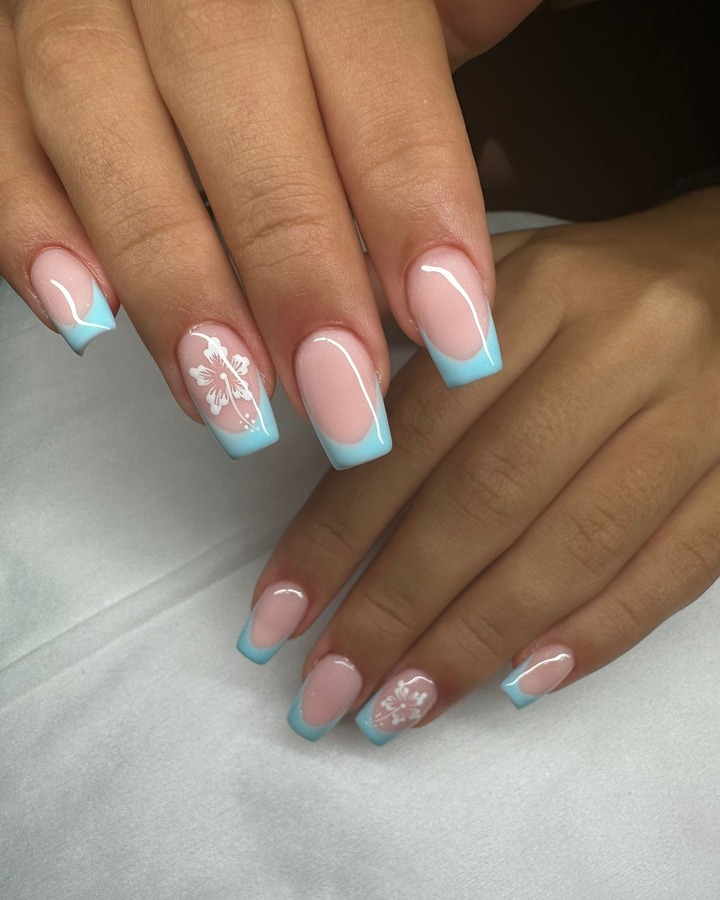
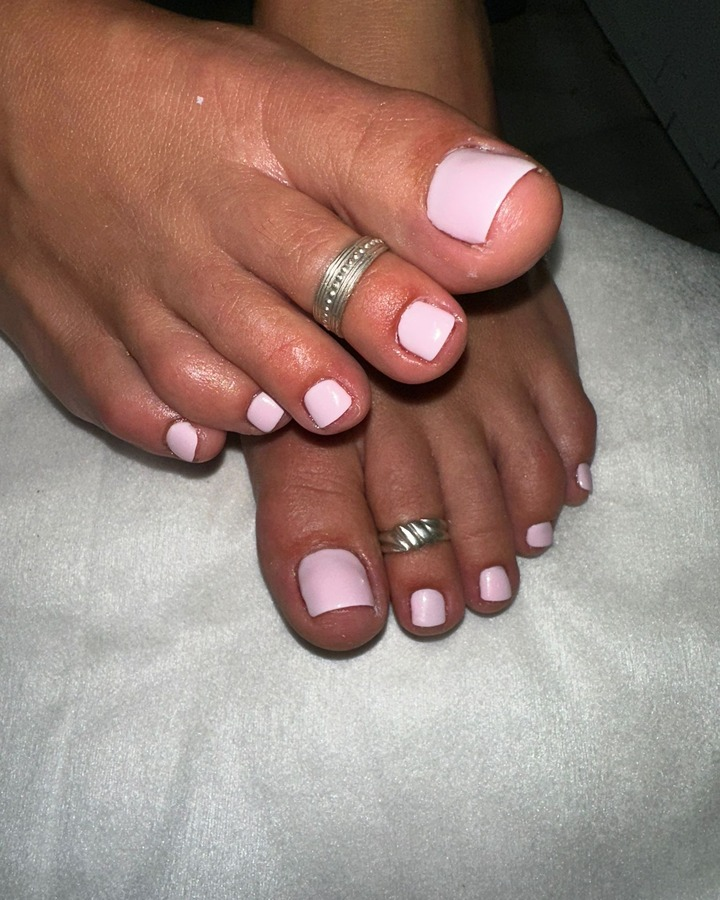
Corregir clasificación y textos de la galería

diff --git a/src/data/galeria.ts b/src/data/galeria.ts
@@ -96,12 +96,14 @@ export const trabajos: Trabajo[] = [
     // La misma manicura que abre la página, aquí con el encuadre vertical
     // completo: se ven las cinco uñas y el diseño entero.
     imagen: almendraNegraCarey,
+    titulo: 'Almendra negra con efecto carey',
     categorias: ['manos', 'gel', 'diseno'],
     alt: 'Uñas almendradas en negro con efecto carey y una flor difuminada, sobre adelfas rosas',
     descripcion: 'Almendra negra con efecto carey y una flor difuminada, un diseño intenso y elegante.',
   },
   {
     imagen: francesBabyboomer,
+    titulo: 'Francesa babyboomer nude',
     categorias: ['manos', 'diseno'],
     alt: 'Francesa babyboomer: degradado de nude a blanco sin línea marcada',
     descripcion: 'Francesa babyboomer en nude y blanco, suave y luminosa.',
@@ -109,49 +111,57 @@ export const trabajos: Trabajo[] = [
   },
   {
     imagen: rojoRosaPintada,
+    titulo: 'Rosa roja pintada a mano',
     categorias: ['manos', 'diseno'],
     alt: 'Manicura roja con una rosa y hojas pintadas a mano sobre base nude',
     descripcion: 'Base nude con una rosa y hojas pintadas a mano para un acabado único.',
   },
   {
     imagen: nudeNaturalBrillo,
+    titulo: 'Nude natural de alto brillo',
     categorias: ['manos'],
     alt: 'Uñas naturales cortas con acabado nude de alto brillo',
     descripcion: 'Uña natural corta en nude, limpia y con brillo espejo.',
   },
   {
     imagen: degradadoLilaNegro,
+    titulo: 'Degradado lila y negro con pedrería',
     categorias: ['manos', 'gel', 'diseno'],
     alt: 'Degradado de lila a negro con pedrería plateada en el anular',
     descripcion: 'Degradado de lila a negro con un toque de pedrería plateada.',
   },
   {
     imagen: pedicuraRojo,
-    categorias: ['pies', 'manos'],
-    alt: 'Pedicura y manicura a juego en rojo intenso',
-    descripcion: 'Manicura y pedicura a juego en rojo intenso.',
+    titulo: 'Pedicura roja a juego',
+    categorias: ['pies'],
+    alt: 'Pedicura en rojo intenso sobre uñas cortas de los pies, junto a una manicura roja',
+    descripcion: 'Pedicura en rojo intenso sobre uñas cortas, fotografiada junto a la manicura a juego.',
     destacada: true,
   },
   {
     imagen: nudeCremoso,
+    titulo: 'Almendra corta en nude cremoso',
     categorias: ['manos'],
     alt: 'Almendra corta en nude cremoso con acabado satinado',
     descripcion: 'Almendra corta en nude cremoso y acabado satinado.',
   },
   {
     imagen: turquesaMarmol,
+    titulo: 'Turquesa degradado con mármol',
     categorias: ['manos', 'diseno'],
     alt: 'Degradado turquesa con vetas negras de mármol trazadas a mano',
     descripcion: 'Turquesa degradado con vetas negras de mármol dibujadas a mano.',
   },
   {
     imagen: lilaPastel,
+    titulo: 'Almendra lila con purpurina',
     categorias: ['manos', 'gel'],
     alt: 'Almendra larga en lila pastel con purpurina fina',
     descripcion: 'Almendra larga en lila pastel con un velo de purpurina fina.',
   },
   {
     imagen: rojoDisenoBn,
+    titulo: 'Rojo gráfico en blanco y negro',
     categorias: ['manos', 'diseno'],
     alt: 'Uñas rojas con un diseño en blanco y negro pintado a mano',
     descripcion: 'Rojo intenso combinado con un diseño gráfico en blanco y negro.',
@@ -159,30 +169,35 @@ export const trabajos: Trabajo[] = [
   },
   {
     imagen: purpurinaCoral,
+    titulo: 'Coral y rosa con purpurina',
     categorias: ['manos', 'diseno'],
     alt: 'Combinación de purpurina coral, rosa empolvado y blanco roto en forma cuadrada',
     descripcion: 'Coral, rosa empolvado y blanco roto con purpurina en forma cuadrada.',
   },
   {
     imagen: coralLiso,
+    titulo: 'Almendra coral de brillo espejo',
     categorias: ['manos'],
     alt: 'Almendra en coral liso con brillo espejo',
     descripcion: 'Almendra en coral liso con un brillo limpio y luminoso.',
   },
   {
     imagen: fucsiaTornasolado,
+    titulo: 'Fucsia tornasolado violeta',
     categorias: ['manos'],
     alt: 'Fucsia tornasolado con reflejo violeta sobre tul blanco',
     descripcion: 'Fucsia tornasolado con reflejos violetas.',
   },
   {
     imagen: degradadoRosaFlores,
+    titulo: 'Degradado rosa sobre flores blancas',
     categorias: ['manos', 'diseno'],
     alt: 'Degradado de nude a rosa y rojo, fotografiado sobre flores blancas',
     descripcion: 'Degradado de nude a rosa y rojo con un acabado romántico.',
   },
   {
     imagen: francesNeonExtension,
+    titulo: 'Francesa neón multicolor con extensión',
     categorias: ['gel', 'diseno'],
     alt: 'Uñas de gel con extensión y francesa en neón verde, rosa, amarillo y naranja',
     descripcion: 'Extensión de gel con francesa neón multicolor, para llevar las manos al centro.',
@@ -190,104 +205,108 @@ export const trabajos: Trabajo[] = [
   },
   {
     imagen: degradadoNaranja,
+    titulo: 'Degradado naranja y coral',
     categorias: ['manos'],
     alt: 'Degradado de naranja a coral en forma almendra',
     descripcion: 'Almendra en degradado de naranja a coral.',
   },
   {
     imagen: rosaNeonFrancesa,
+    titulo: 'Rosa neón con francesa invertida',
     categorias: ['manos', 'diseno'],
     alt: 'Rosa neón con francesa invertida en blanco',
     descripcion: 'Rosa neón con francesa invertida en blanco.',
   },
   {
     imagen: rosaNeonFloral,
+    titulo: 'Rosa neón con flores multicolor',
     categorias: ['manos', 'diseno'],
     alt: 'Rosa neón combinado con un diseño floral multicolor sobre base blanca',
     descripcion: 'Rosa neón y flores multicolor sobre una base blanca.',
   },
   {
     imagen: neonArcoiris,
+    titulo: 'Neón multicolor con arcoíris',
     categorias: ['manos', 'diseno'],
     alt: 'Neones lisos combinados con un degradado arcoíris pintado a mano alzada',
     descripcion: 'Colores neón lisos con un degradado arcoíris pintado a mano alzada.',
   },
   {
     imagen: rojoAlmendraClasico,
-    titulo: 'Rojo clásico almendrado',
+    titulo: 'Rojo clásico en forma almendrada',
     categorias: ['manos'],
     alt: 'Manicura roja brillante en uñas largas de forma almendrada',
-    descripcion: 'Rojo clásico de alto brillo sobre una elegante forma almendrada.',
+    descripcion: 'Manicura roja lisa y brillante sobre uñas largas de forma almendrada.',
   },
   {
     imagen: rojoClasicoCorta,
-    titulo: 'Rojo clásico corto',
+    titulo: 'Rojo clásico en uña corta',
     categorias: ['manos'],
     alt: 'Manicura roja brillante en uñas cortas y redondeadas',
-    descripcion: 'Rojo intenso y uniforme en una manicura corta, limpia y atemporal.',
+    descripcion: 'Rojo intenso y uniforme en una manicura corta, redondeada y atemporal.',
   },
   {
     imagen: turquesaLisoCuadrada,
-    titulo: 'Turquesa liso cuadrado',
+    titulo: 'Turquesa liso en forma cuadrada',
     categorias: ['manos'],
     alt: 'Manicura turquesa brillante en uñas cuadradas',
-    descripcion: 'Turquesa vibrante y brillante en una forma cuadrada muy pulida.',
+    descripcion: 'Turquesa vibrante y brillante sobre uñas cuadradas de longitud corta.',
   },
   {
     imagen: turquesaLisoManicura,
-    titulo: 'Turquesa brillante',
+    titulo: 'Manicura turquesa de brillo espejo',
     categorias: ['manos'],
     alt: 'Manicura turquesa brillante en uñas de forma cuadrada',
-    descripcion: 'Un turquesa luminoso que destaca por su acabado espejo.',
+    descripcion: 'Manicura turquesa lisa, luminosa y de acabado espejo en ambas manos.',
   },
   {
     imagen: francesTurquesaNude,
-    titulo: 'Francesa turquesa sobre nude',
+    titulo: 'Francesa turquesa sobre base nude',
     categorias: ['manos', 'diseno'],
     alt: 'Uñas nude con punta francesa en turquesa',
-    descripcion: 'Base nude natural con una punta francesa turquesa fresca y delicada.',
+    descripcion: 'Base nude translúcida con puntas francesas turquesa de acabado brillante.',
   },
   {
     imagen: francesTurquesaCorta,
-    titulo: 'Francesa turquesa corta',
+    titulo: 'Francesa turquesa corta y redondeada',
     categorias: ['manos', 'diseno'],
     alt: 'Uñas cortas nude con francesa turquesa y brillo',
-    descripcion: 'Francesa turquesa en uña corta para un resultado discreto y luminoso.',
+    descripcion: 'Puntas turquesa sobre base nude en una manicura corta, limpia y luminosa.',
   },
   {
     imagen: rosaPastelAlmendra,
-    titulo: 'Rosa pastel almendrado',
+    titulo: 'Rosa pastel cremoso almendrado',
     categorias: ['manos'],
     alt: 'Manicura rosa pastel brillante en uñas almendradas',
-    descripcion: 'Rosa pastel cremoso en forma almendrada, suave y muy femenina.',
+    descripcion: 'Rosa pastel cremoso y brillante sobre uñas largas de forma almendrada.',
   },
   {
     imagen: pedicuraRosaPastel,
-    titulo: 'Pedicura rosa pastel',
+    titulo: 'Pedicura rosa pastel brillante',
     categorias: ['pies'],
     alt: 'Pedicura rosa pastel brillante en uñas de los pies',
-    descripcion: 'Pedicura rosa pastel con acabado brillante y cuidado impecable.',
+    descripcion: 'Esmaltado rosa pastel brillante en las uñas de los pies, suave y luminoso.',
   },
   {
     imagen: rosaNeonFlores,
-    titulo: 'Rosa neón y flores',
+    titulo: 'Rosa neón, verde agua y flores',
     categorias: ['manos', 'diseno'],
     alt: 'Manicura rosa neón y verde agua con una uña decorada con flores',
-    descripcion: 'Rosa neón, verde agua y una uña floral multicolor llena de alegría.',
+    descripcion: 'Manicura de contraste en rosa neón y verde agua, con una uña floral multicolor.',
     destacada: true,
   },
   {
     imagen: francesTurquesaFloral,
-    titulo: 'Francesa turquesa floral',
+    titulo: 'Francesa turquesa con flores blancas',
     categorias: ['manos', 'diseno'],
     alt: 'Francesa turquesa sobre nude con flores blancas pintadas a mano',
-    descripcion: 'Francesa turquesa sobre nude con pequeños detalles florales pintados a mano.',
+    descripcion: 'Puntas turquesa sobre nude con flores blancas pintadas a mano en las uñas de acento.',
   },
   {
     imagen: pedicuraRosaCorta,
-    titulo: 'Pedicura rosa corta',
+    titulo: 'Pedicura rosa pastel corta',
     categorias: ['pies'],
-    alt: 'Pedicura rosa pastel en uñas cortas de los pies',
-    descripcion: 'Rosa pastel uniforme para una pedicura corta, cuidada y luminosa.',
+    alt: 'Pedicura rosa pastel uniforme en uñas cortas de los pies',
+    descripcion: 'Esmaltado rosa pastel uniforme en uñas cortas de los pies, con acabado brillante.',
   },
 ]
